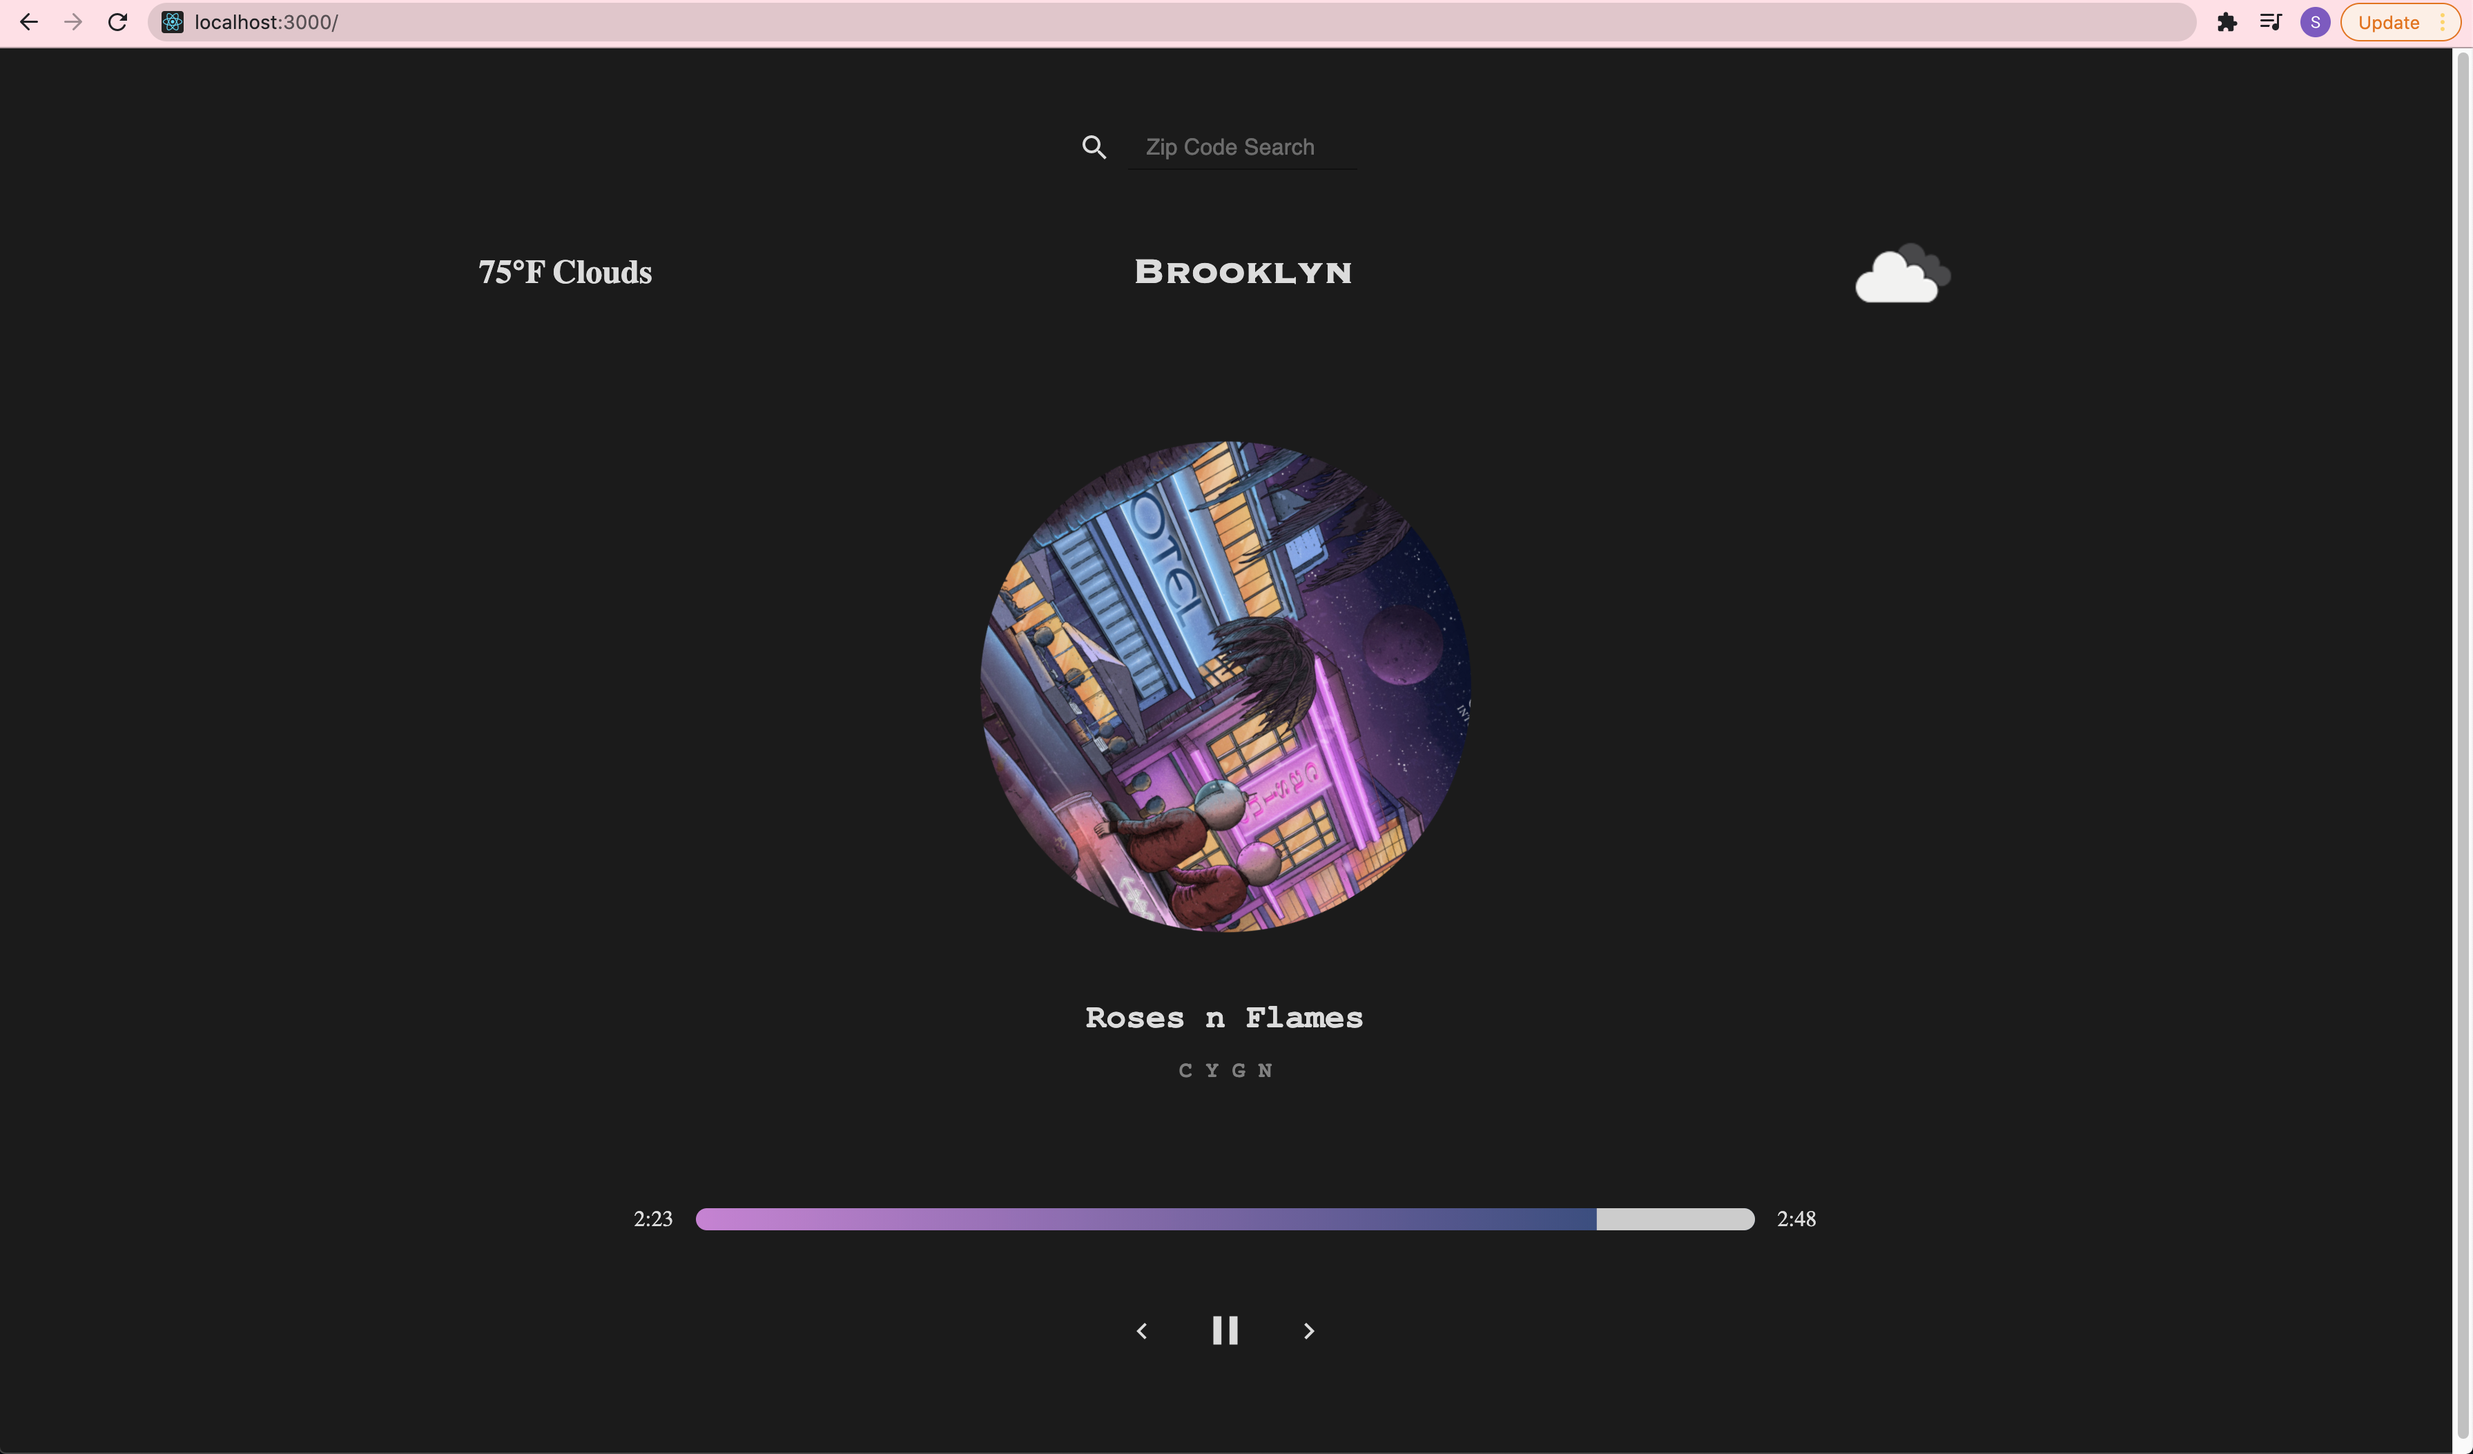
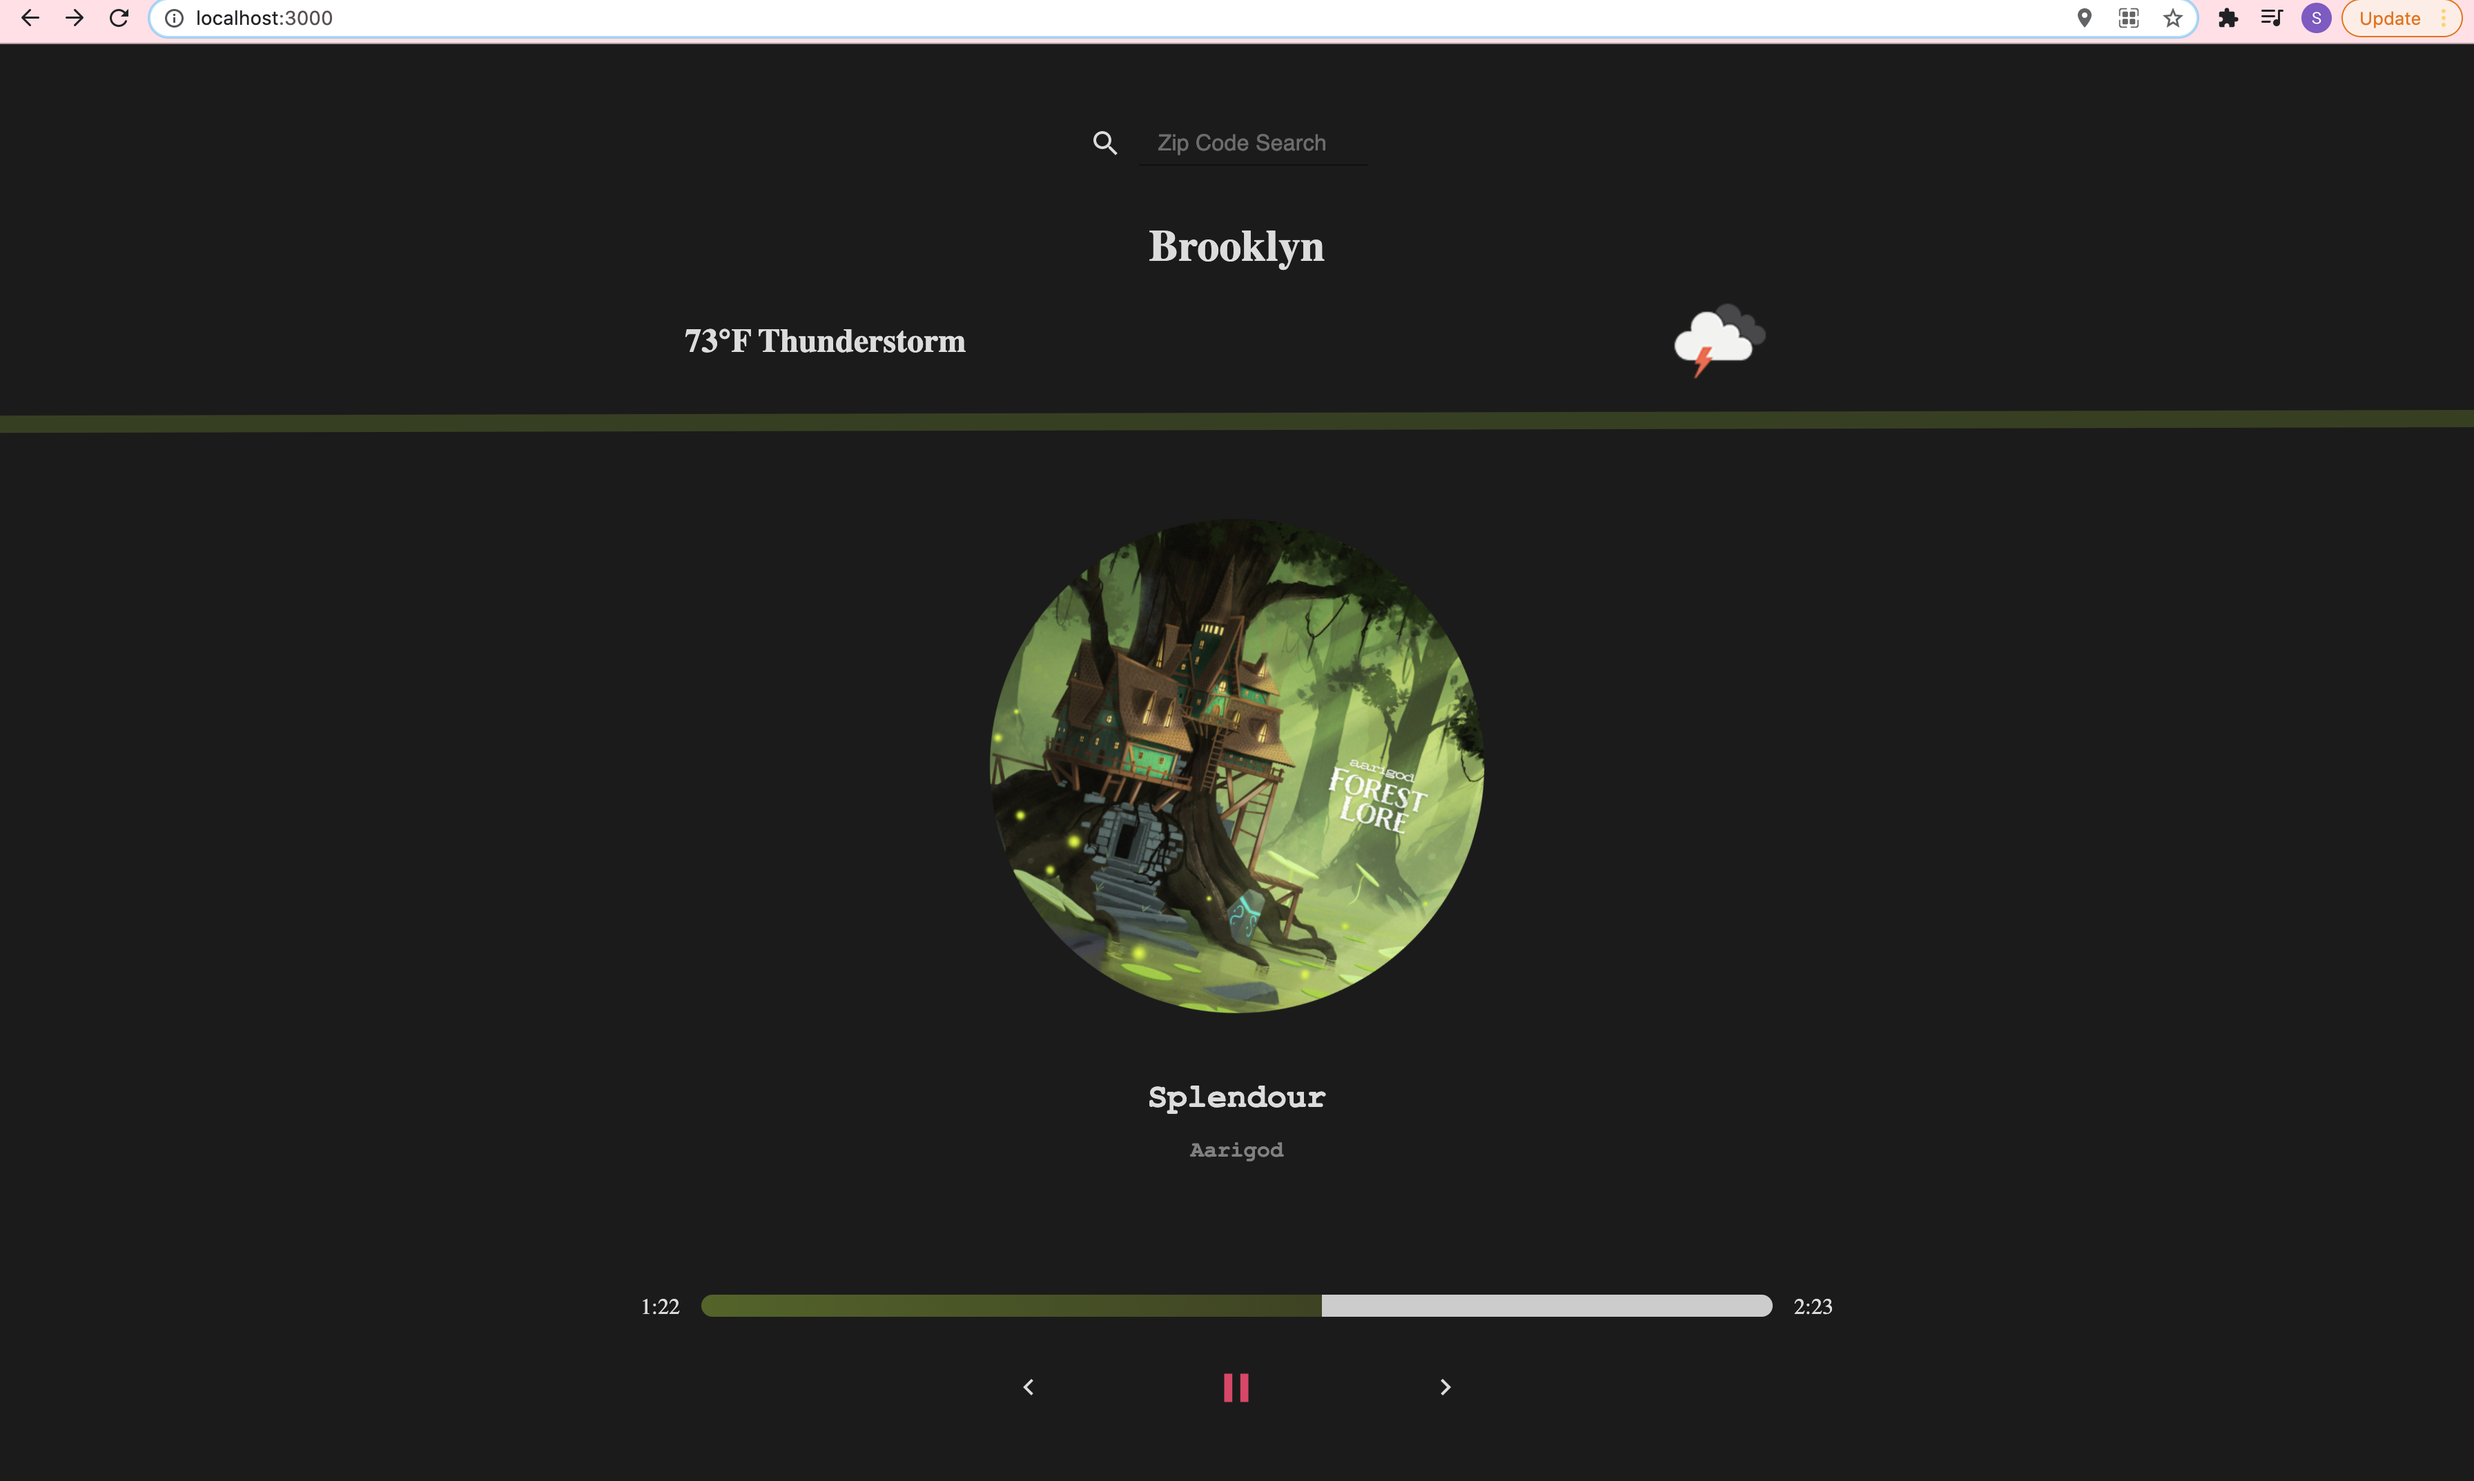
Overall tightened design plus much cleaner mobile UI

diff --git a/weather/src/components/WeatherInfo.js b/weather/src/components/WeatherInfo.js
@@ -1,17 +1,23 @@
 import React from "react";
 import { WEATHER_CONDITION_ICON } from "../api/api";
 import { StyledWeather } from "../styledComponents/StyledWeather";
+import { motion } from "framer-motion";
+import { weatherInfoAnimation } from "../utils/animations";
 
 const WeatherInfo = ({location, tempData, condition, iconData}) => {
   const icon = `${WEATHER_CONDITION_ICON}${iconData}@2x.png`;
   const temp = Math.round(((tempData - 273.15) * 9) / 5 + 32)
 
   return (
-    <StyledWeather>
-      <h2>{temp}°F {condition}</h2>
-      <h1>{location}</h1>
-      <img src={icon} alt="Home Icon" />
-    </StyledWeather>
+    <>
+      <div style={{display: "flex", alignItems: "center", justifyContent: "center"}}>
+        <motion.h1 variants={weatherInfoAnimation}>{location}</motion.h1>
+      </div>
+      <StyledWeather>
+        <motion.h2 variants={weatherInfoAnimation}>{temp}°F {condition}</motion.h2>
+        <motion.img variants={weatherInfoAnimation} src={icon} alt="Weather Icon" />
+      </StyledWeather>
+    </>
   )
 }
 

diff --git a/weather/src/components/Wave.js b/weather/src/components/Wave.js
@@ -1,0 +1,32 @@
+import React from "react";
+import styled from "styled-components";
+import { motion } from "framer-motion";
+
+const Wave = ({waveColor}) => {
+  return (
+    <WaveSvg
+      viewBox="0 0 1440 363"
+      fill="none"
+      xmlns="http://www.w3.org/2000/svg"
+    >
+      <motion.path
+        initial={{ pathLength: 0, pathOffset: 1 }}
+        animate={{ pathLength: 1, pathOffset: 0 }}
+        transition={{ duration: 1 }}
+        d="M1440 5 0.487081 8.32998 -10000.21721 49.0556 185.318C23.165 170.328 355.647 354.282 450.052 227.276C620.48 899.331 49.0556 1122.41 19.8184 27.4774C1352.73"
+        stroke={waveColor}
+        strokeOpacity="0.5"
+        strokeWidth="10"
+      />
+    </WaveSvg>
+  );
+};
+
+const WaveSvg = styled.svg`
+  position: absolute;
+  left: 0;
+  z-index: 1;
+`;
+
+export default Wave;
+

diff --git a/weather/src/pages/Home.js b/weather/src/pages/Home.js
@@ -98,7 +98,7 @@ const Home = () => {
         : (
           <motion.div variants={pageAnimation} initial="hidden" animate="show">
             <StyledSearch>
-              <form style={{display: "flex", flexDirection: "row", alignItems: "center", justifyContent: "center", paddingRight: "1.5rem", paddingTop: "3rem"}}>
+              <form style={{display: "flex", flexDirection: "row", alignItems: "center", justifyContent: "center", paddingRight: "1.5rem", paddingTop: "3rem", paddingBottom: "2rem"}}>
                 <IconButton onClick={submitSearchZipCode} type="submit">
                   <SearchIcon />
                 </IconButton>

diff --git a/weather/src/components/Player.js b/weather/src/components/Player.js
@@ -92,8 +92,8 @@ const Player = ({ songOptions }) => {
           <p>{formatTime(songTime.songLength)}</p>
         </TimeControl>
         <PlayControl>
-          <ChevronLeftIcon colorPrimary="white" onClick={previousSong}/>
-          {isPlaying ? <PauseIcon fontSize="large" onClick={pauseSong} /> : <PlayArrowIcon fontSize="large" onClick={playSong} /> }
+          <ChevronLeftIcon onClick={previousSong} />
+          {isPlaying ? <PauseIcon fontSize="large" onClick={pauseSong} /> : <PlayArrowIcon fontSize="large" onClick={playSong} />}
           <ChevronRightIcon onClick={nextSong} />
         </PlayControl>
         <audio

diff --git a/weather/src/components/Song.js b/weather/src/components/Song.js
@@ -1,13 +1,17 @@
 import React from "react";
 import { StyledSong } from "../styledComponents/StyledSong";
+import Wave from "./Wave";
 
 const Song = ({song, isPlaying }) => {
   return (
-    <StyledSong isPlaying={isPlaying}>
-      <img alt={song.name} src={song.art} />
-      <h2>{song.name}</h2>
-      <h3>{song.artist}</h3>
-    </StyledSong>
+    <>
+      <Wave waveColor={song.color[0]}/>
+      <StyledSong isPlaying={isPlaying}>
+        <img alt={song.name} src={song.art} />
+        <h2>{song.name}</h2>
+        <h3>{song.artist}</h3>
+      </StyledSong>
+    </>
   )
 }
 

diff --git a/weather/src/styledComponents/StyledPlayer.js b/weather/src/styledComponents/StyledPlayer.js
@@ -4,14 +4,17 @@ export const PlayControl = styled.div`
   align-items: center;
   display: flex;
   justify-content: space-between;
-  padding: 1rem 1rem 5rem 1rem;
-  width: 10%;
+  padding: 1rem 1rem 8rem 1rem;
+  width: 20%;
   svg {
     cursor: pointer;
     color: gainsboro;
   }
   svg:hover {
     fill: #DA4567
+  }
+  @media screen and (max-width: 768px) {
+    width: 60%;
   }
 `;
 

diff --git a/weather/src/utils/animations.js b/weather/src/utils/animations.js
@@ -7,7 +7,17 @@ export const pageAnimation = {
     opacity: 1,
     y: 0,
     transition: {
-      duration: 1
+      duration: 1,
+      when: "beforeChildren",
+      staggerChildren: 0.1
     }
+  }
+}
+
+export const weatherInfoAnimation = {
+  hidden: {x: -2000},
+  show: {
+    x: 0,
+    transition: { duration: 0.75, ease: "easeOut"}
   }
 }

diff --git a/weather/src/styledComponents/StyledWeather.js b/weather/src/styledComponents/StyledWeather.js
@@ -4,7 +4,6 @@ export const StyledWeather = styled.div`
   align-items: center;
   display: flex;
   justify-content: space-evenly;
-  padding-top: 1rem;
   h1 {
     font-family: Copperplate, fantasy;
   }

diff --git a/weather/README.md b/weather/README.md
@@ -6,4 +6,8 @@
    
    ![Weather Music App](weather-music.png)
 
-### Your local weather and corresponding music vibe is loaded first, and you can also search for different zip codes and the music playlist will reflect the mood of those weather conditions!
+### Your local weather and corresponding music vibe is loaded first, and you can also search for different zip codes and the music playlist will reflect the mood of those weather conditions (mobile friendly too!):
+
+![Weather Music App Mobile](weather-music-mobile.png)
+
+
